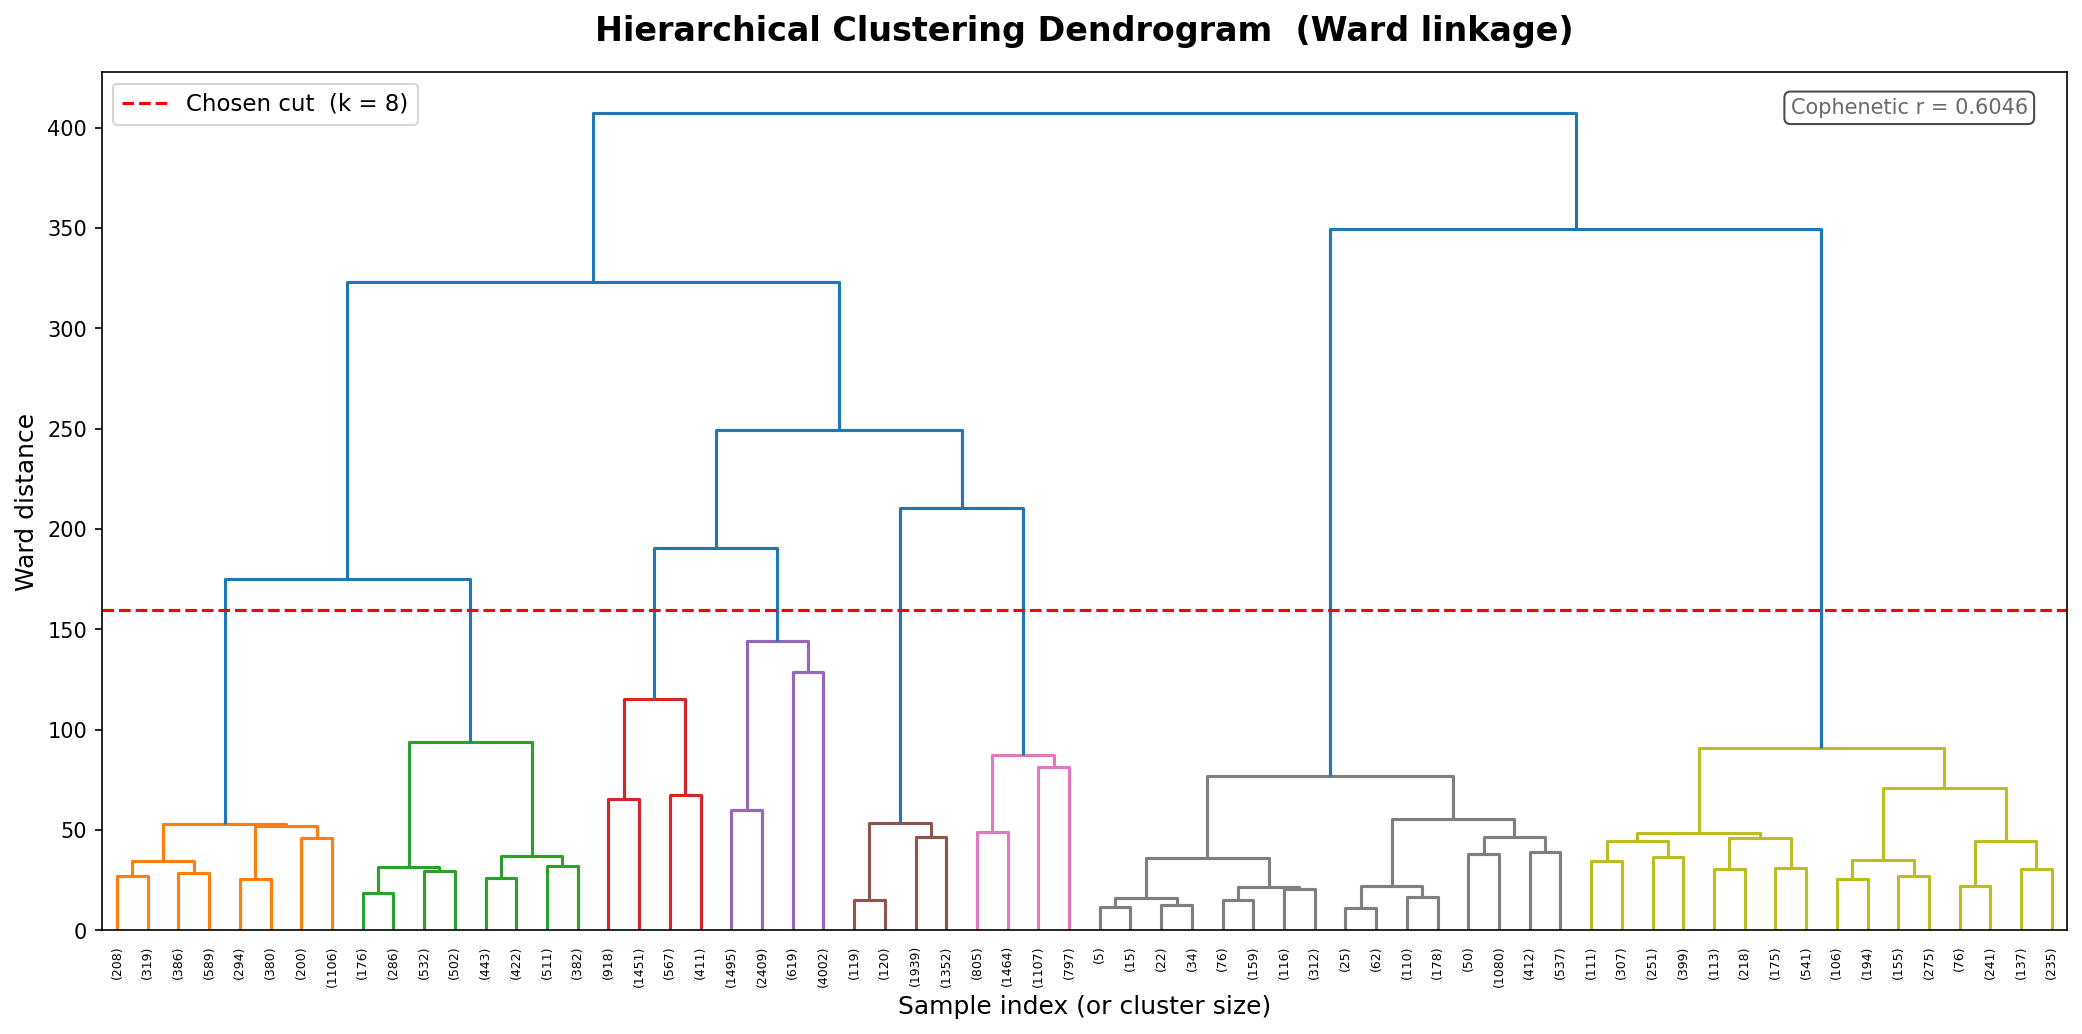
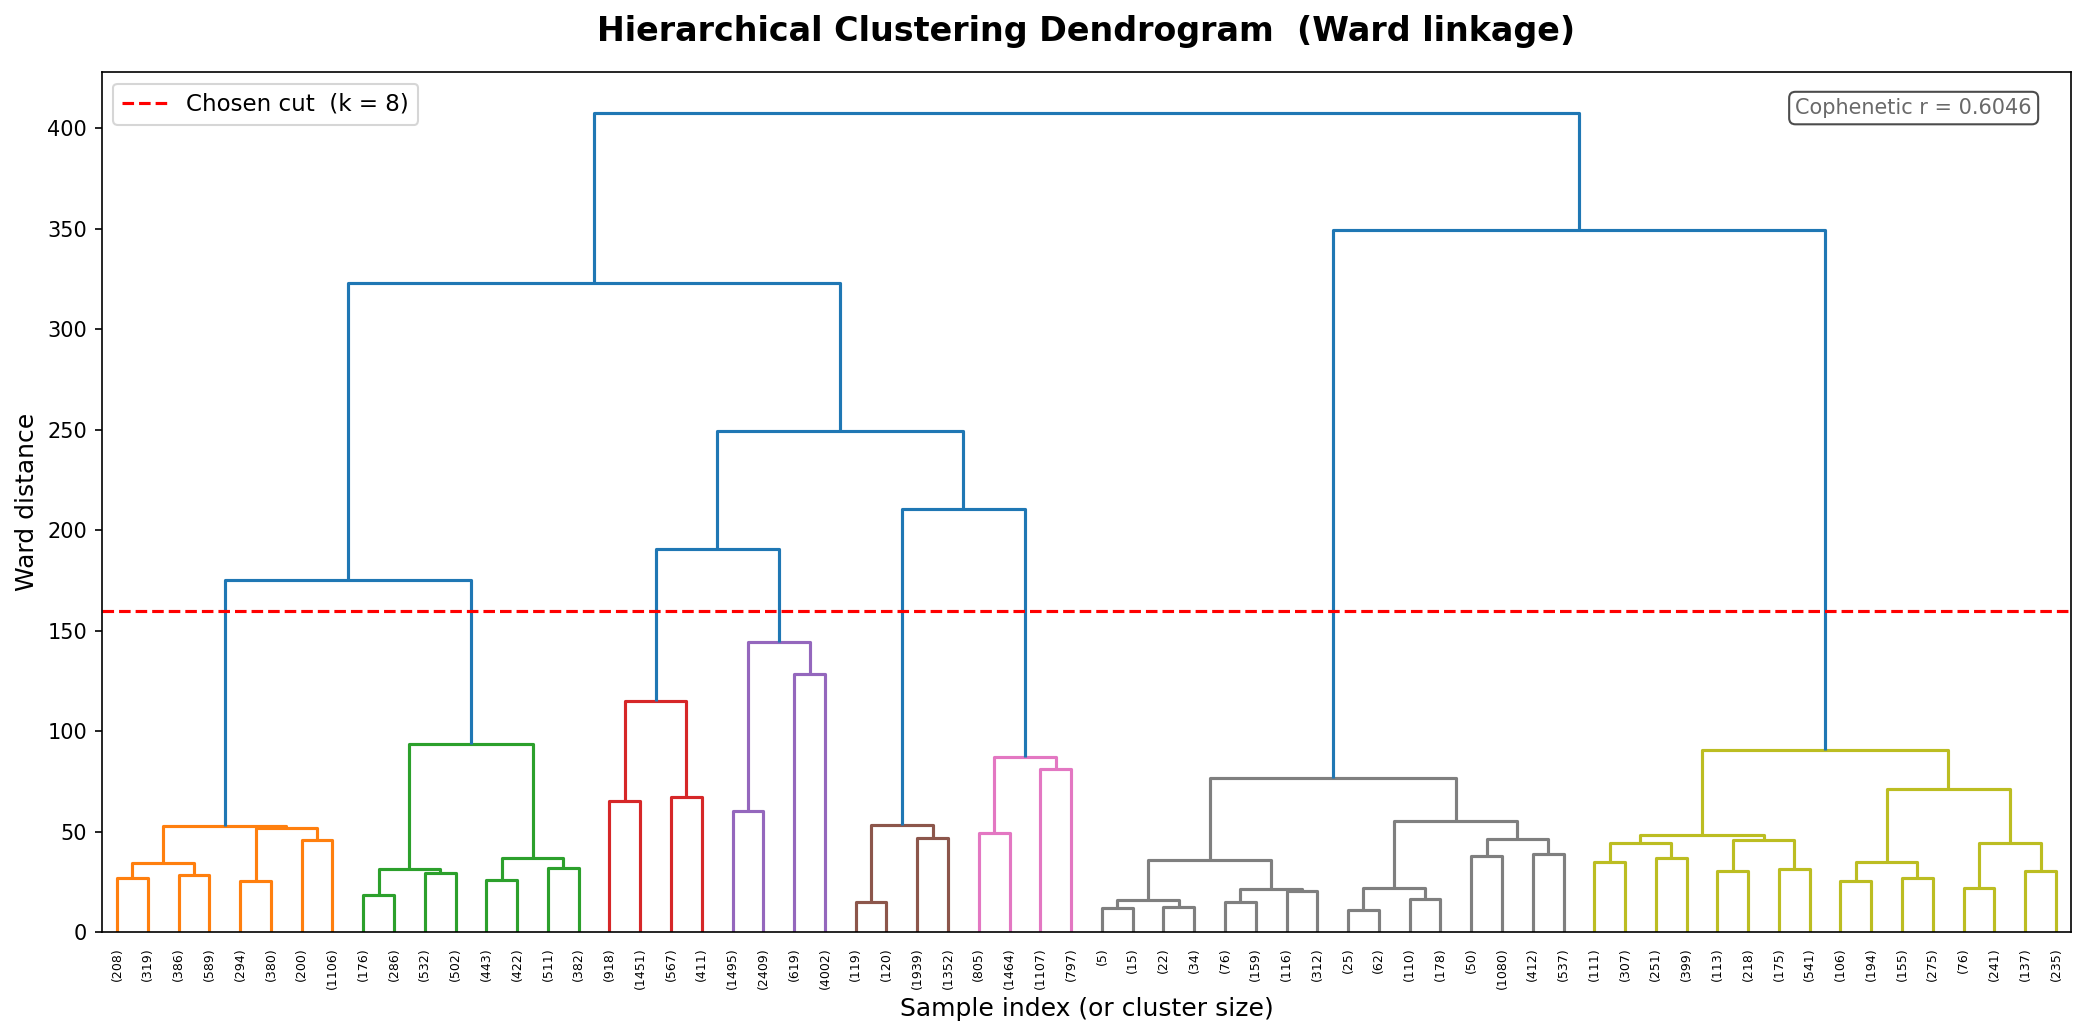
updates made

diff --git a/src/compare_clusters.py b/src/compare_clusters.py
@@ -1,0 +1,93 @@
+import os
+os.environ["LOKY_MAX_CPU_COUNT"] = "1"
+
+import pandas as pd
+import numpy as np
+import seaborn as sns
+import matplotlib.pyplot as plt
+from sklearn.preprocessing import StandardScaler
+from clustering import KmeansClustering
+from som import SOM
+
+def compare_clusters():
+    # 1. Load Data
+    print("Loading and preparing data...")
+    data = pd.read_csv("data/customer_info_cleaned.csv")
+    
+    # Selecting the same columns as in other scripts
+    data_for_clustering = data.iloc[:, 4:].copy()
+    feature_names = data_for_clustering.columns
+    
+    # Scaling data (highly recommended for K-Means and SOM)
+    scaler = StandardScaler()
+    data_scaled = scaler.fit_transform(data_for_clustering)
+    
+    # 2. Run K-Means
+    print("Running K-Means...")
+    # Using k=9 as seen in clustering.py
+    k_kmeans = 8
+    km_algo = KmeansClustering(min_k=2, max_k=15, data=data_scaled, random_seed=7)
+    kmeans_labels, _, _ = km_algo.cluster(k_kmeans, 10) # reduced epochs for speed
+    
+    # 3. Run SOM 
+    print("Running SOM...")
+    # Using k=9 (3x3 grid) as seen in som.py
+    k_som = 9
+    som_algo = SOM(sigma=1, alpha=0.5, dimensions=len(feature_names), k=k_som, 
+                   low_range=-1, high_range=1, epochs=50, random_seed=7) # reduced epochs for speed
+    _ = som_algo.algorithm(data_scaled, feature_names)
+    som_labels = som_algo.get_labels(data_scaled)
+    
+    # Shift labels to start from 1 for better readability if preferred, 
+    # but KmeansClustering.cluster already shifts them! 
+    # Let's check som_labels.
+    som_labels = som_labels + 1 # Aligning with K-Means labels which are shifted in clustering.py
+    
+    # 4. Create Comparison DataFrame
+    df_compare = pd.DataFrame({
+        'K-Means Cluster': kmeans_labels,
+        'SOM Cluster': som_labels
+    })
+    
+    # 5. Generate Contingency Table (Crosstab)
+    # K-Means on Y, SOM on X
+    contingency_matrix = pd.crosstab(df_compare['K-Means Cluster'], 
+                                     df_compare['SOM Cluster'],
+                                     dropna=False)
+    
+    print("\nContingency Table (K-Means vs SOM):")
+    print(contingency_matrix)
+    
+    # 6. Visualization
+    plt.style.use('seaborn-v0_8-white')
+    plt.figure(figsize=(12, 10), dpi=120)
+    
+    # Create output directory if it doesn't exist
+    import os
+    os.makedirs("output", exist_ok=True)
+    
+    sns.heatmap(contingency_matrix, annot=True, fmt='d', cmap='YlGnBu', 
+                linewidths=.5, cbar_kws={'label': 'Number of Datapoints'})
+    
+    plt.title('Clustering Agreement: K-Means vs SOM', fontsize=18, fontweight='bold', pad=25)
+    plt.xlabel('SOM Cluster ID', fontsize=14, fontweight='bold')
+    plt.ylabel('K-Means Cluster ID', fontsize=14, fontweight='bold')
+    
+    plt.tight_layout()
+    
+    # Save the plot
+    output_path = "output/kmeans_vs_som_comparison.png"
+    plt.savefig(output_path)
+    print(f"\nComparison heatmap saved to {output_path}")
+    
+    # Print the table in a more readable way
+    print("\n" + "="*50)
+    print("FINAL COMPARISON TABLE")
+    print("="*50)
+    print(contingency_matrix)
+    print("="*50)
+    
+    return contingency_matrix
+
+if __name__ == "__main__":
+    compare_clusters()

diff --git a/src/som.py b/src/som.py
@@ -46,6 +46,10 @@ class SOM():
         distances = [np.linalg.norm(x - w) for w in self.units]
         return np.argmin(distances)
     
+    def get_labels(self, inputs):
+        """get the labels for each input vector"""
+        return np.array([self.get_bmu(x) for x in inputs])
+
     def cluster_inputs(self, inputs):
         """assign the Best Matching Unit for each input vector"""
         inputs = np.array(inputs)